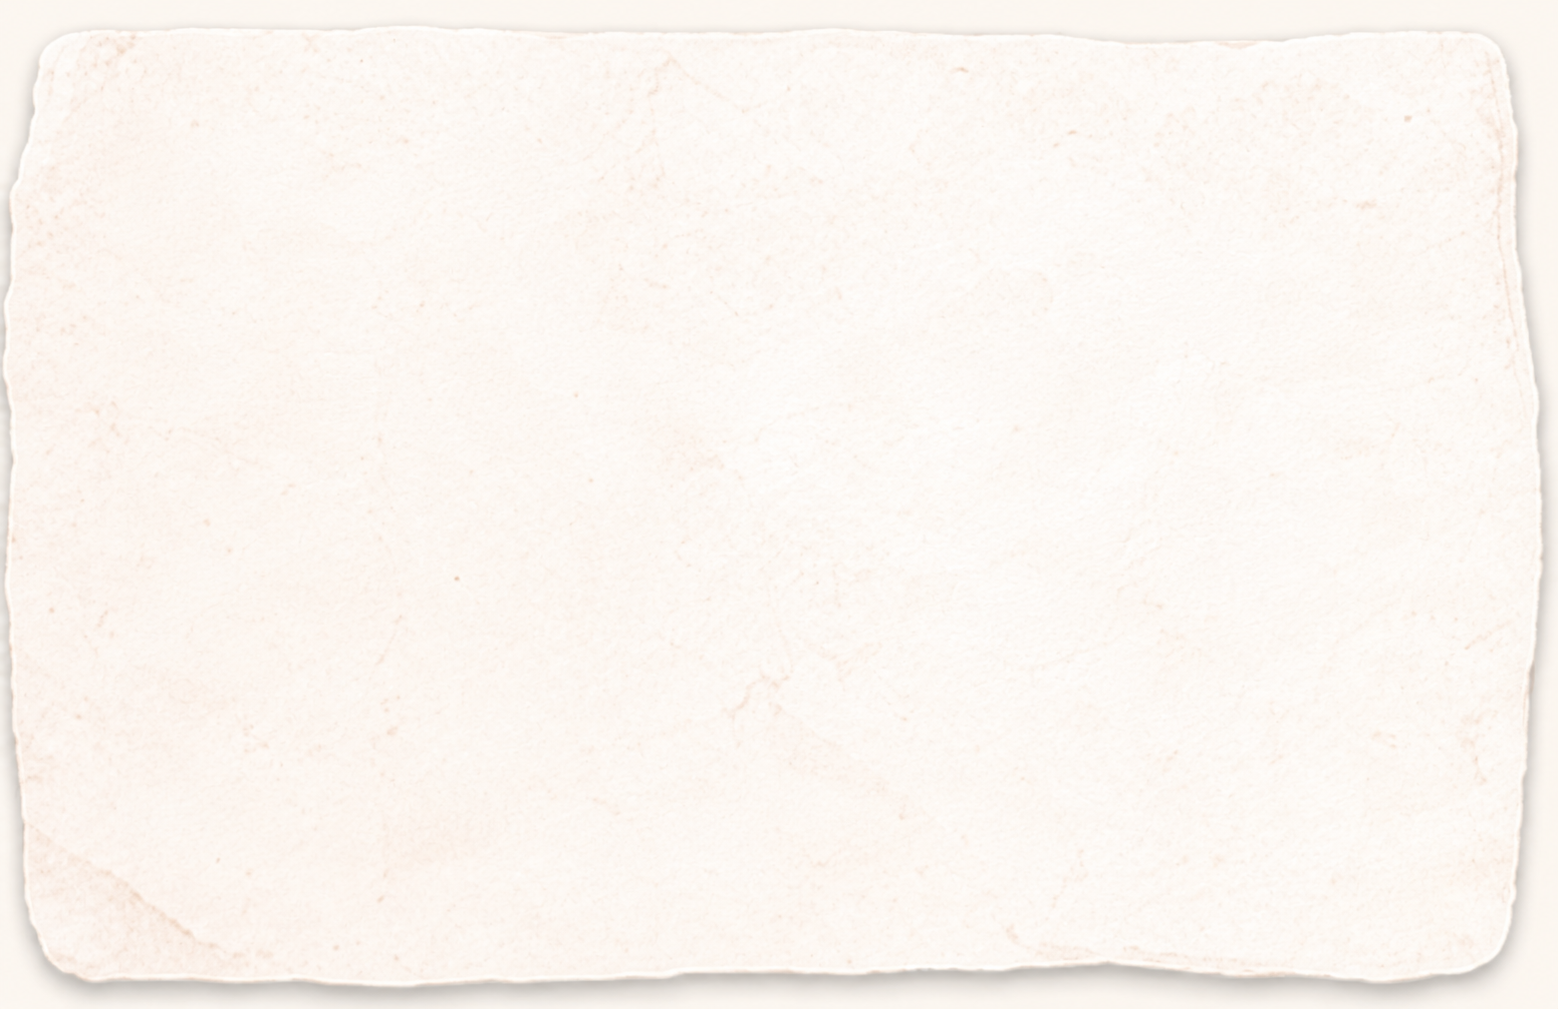
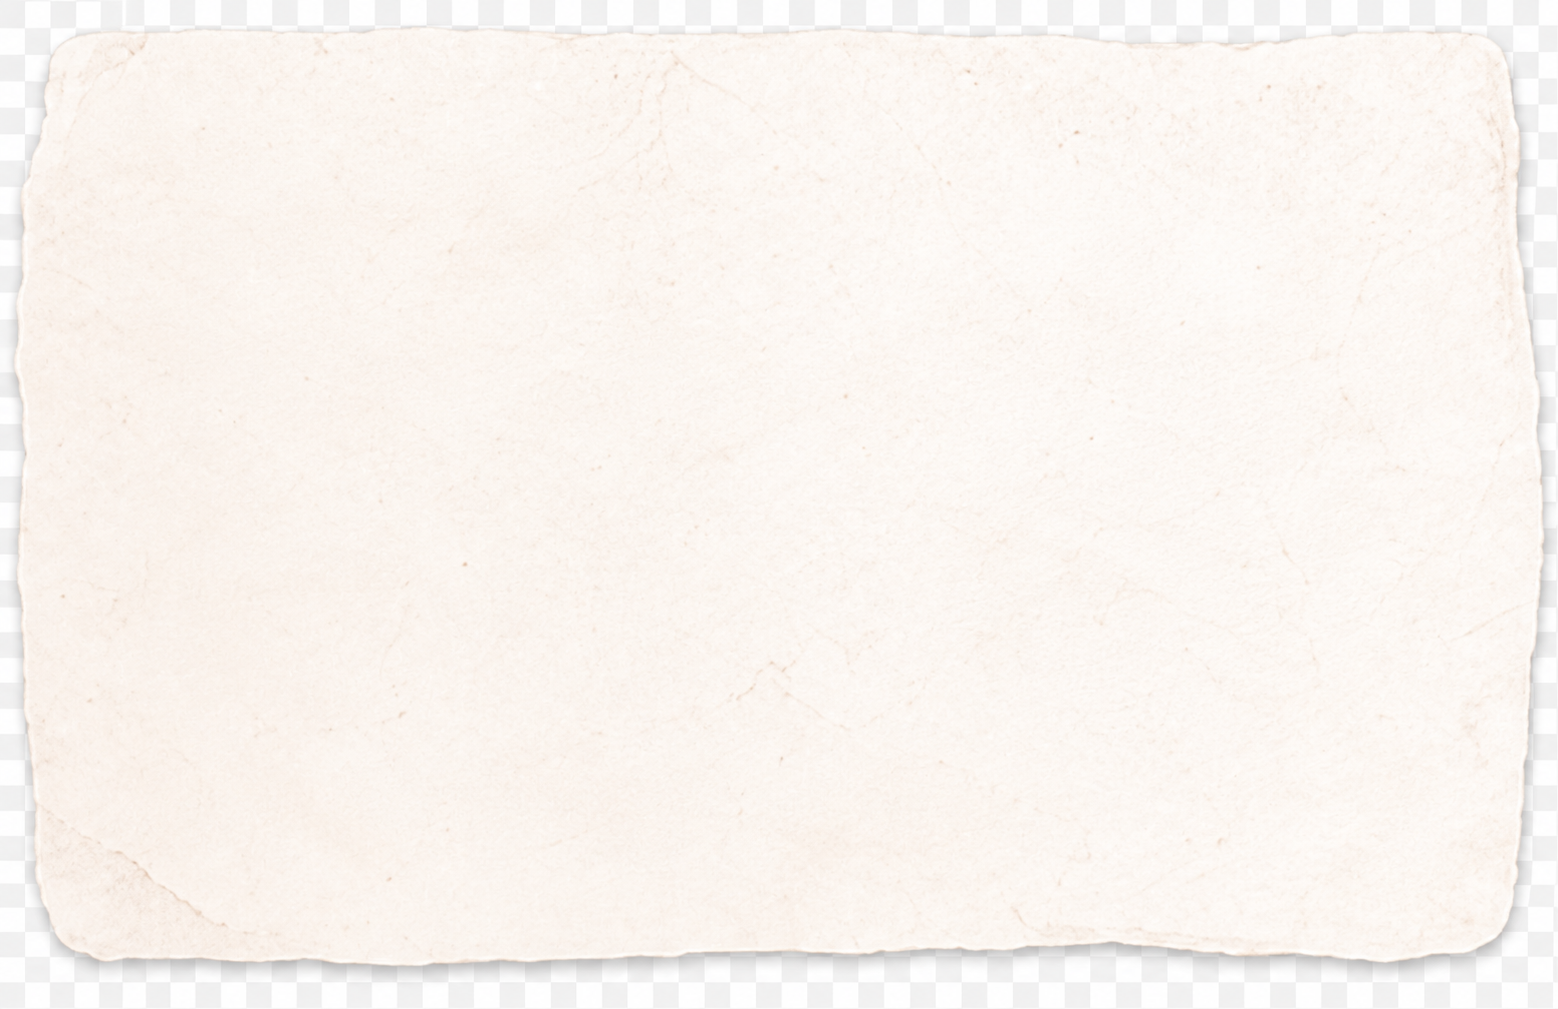
style: show paper texture on dashboard cards

Changed region(s): [[0.0, 0.1843, 0.9859, 1.0], [0.0, 0.0614, 0.0308, 0.1536], [0.9859, 0.6452, 1.0, 0.6759]]

diff --git a/app/(app)/dashboard/page.tsx b/app/(app)/dashboard/page.tsx
@@ -25,8 +25,9 @@ import { useStudyProgress } from "@/hooks/use-study-progress"
 
 const weekdayLabels = ["CN", "T2", "T3", "T4", "T5", "T6", "T7"]
 const paperCardStyle = {
-  backgroundImage: "linear-gradient(rgba(255, 253, 248, 0.9), rgba(255, 253, 248, 0.9)), url('/assets/paper-card-bg.png')",
+  backgroundImage: "linear-gradient(rgba(255, 253, 248, 0.72), rgba(255, 253, 248, 0.72)), url('/assets/paper-card-bg.png')",
   backgroundSize: "cover",
+  backgroundPosition: "center",
 } as const
 
 function buildWeeklyData(activities: ReturnType<typeof useActivityLog>["activities"]) {
@@ -216,6 +217,7 @@ export default function DashboardPage() {
           subtitle={`hoàn thành / ${totalVocabulary} từ`}
           icon={<Image src="/assets/vocab-card.png" alt="" width={96} height={96} aria-hidden="true" className="h-16 w-16 object-contain" />}
           className="relative border border-[#dfb6aa] bg-[#fffdf8] shadow-sm"
+          style={paperCardStyle}
           contentClassName="p-4 pr-24"
           iconClassName="absolute right-2 top-2 bg-transparent p-0 opacity-85"
           valueClassName="text-2xl font-bold tracking-tight"
@@ -227,6 +229,7 @@ export default function DashboardPage() {
           subtitle={`hoàn thành / ${totalGrammar} mẫu`}
           icon={<Image src="/assets/grammar-card.png" alt="" width={96} height={96} aria-hidden="true" className="h-16 w-16 object-contain" />}
           className="relative border border-[#dfb6aa] bg-[#fffdf8] shadow-sm"
+          style={paperCardStyle}
           contentClassName="p-4 pr-24"
           iconClassName="absolute right-2 top-2 bg-transparent p-0 opacity-85"
           valueClassName="text-2xl font-bold tracking-tight"
@@ -238,6 +241,7 @@ export default function DashboardPage() {
           subtitle="bài kiểm tra"
           icon={<Image src="/assets/quiz-card.png" alt="" width={96} height={96} aria-hidden="true" className="h-16 w-16 object-contain" />}
           className="relative border border-[#dfb6aa] bg-[#fffdf8] shadow-sm"
+          style={paperCardStyle}
           contentClassName="p-4 pr-24"
           iconClassName="absolute right-2 top-2 bg-transparent p-0 opacity-85"
           valueClassName="text-2xl font-bold tracking-tight"
@@ -253,6 +257,7 @@ export default function DashboardPage() {
             </div>
           }
           className="relative border border-[#dfb6aa] bg-[#fffdf8] shadow-sm"
+          style={paperCardStyle}
           contentClassName="p-4 pr-24"
           iconClassName="absolute right-3 top-3 bg-transparent p-0"
           valueClassName="text-2xl font-bold tracking-tight"
@@ -262,7 +267,7 @@ export default function DashboardPage() {
 
       <div className="grid gap-6 lg:grid-cols-3">
         <div className="space-y-6 lg:col-span-2">
-          <Card className="border border-border/60 shadow-sm">
+          <Card className="border border-[#dfb6aa] shadow-sm" style={paperCardStyle}>
             <CardHeader>
               <CardTitle className="flex items-center gap-2">
                 <TrendingUp className="h-5 w-5 text-primary" />
@@ -291,7 +296,7 @@ export default function DashboardPage() {
             </CardContent>
           </Card>
 
-          <Card className="border border-border/60 shadow-sm">
+          <Card className="border border-[#dfb6aa] shadow-sm" style={paperCardStyle}>
             <CardHeader>
               <CardTitle className="flex items-center gap-2">
                 <BookOpen className="h-5 w-5 text-success" />
@@ -331,7 +336,7 @@ export default function DashboardPage() {
           </Card>
         </div>
 
-        <Card className="border border-border/60 shadow-sm">
+        <Card className="border border-[#dfb6aa] shadow-sm" style={paperCardStyle}>
           <CardHeader>
             <CardTitle className="flex items-center gap-2">
               <Clock className="h-5 w-5 text-muted-foreground" />
